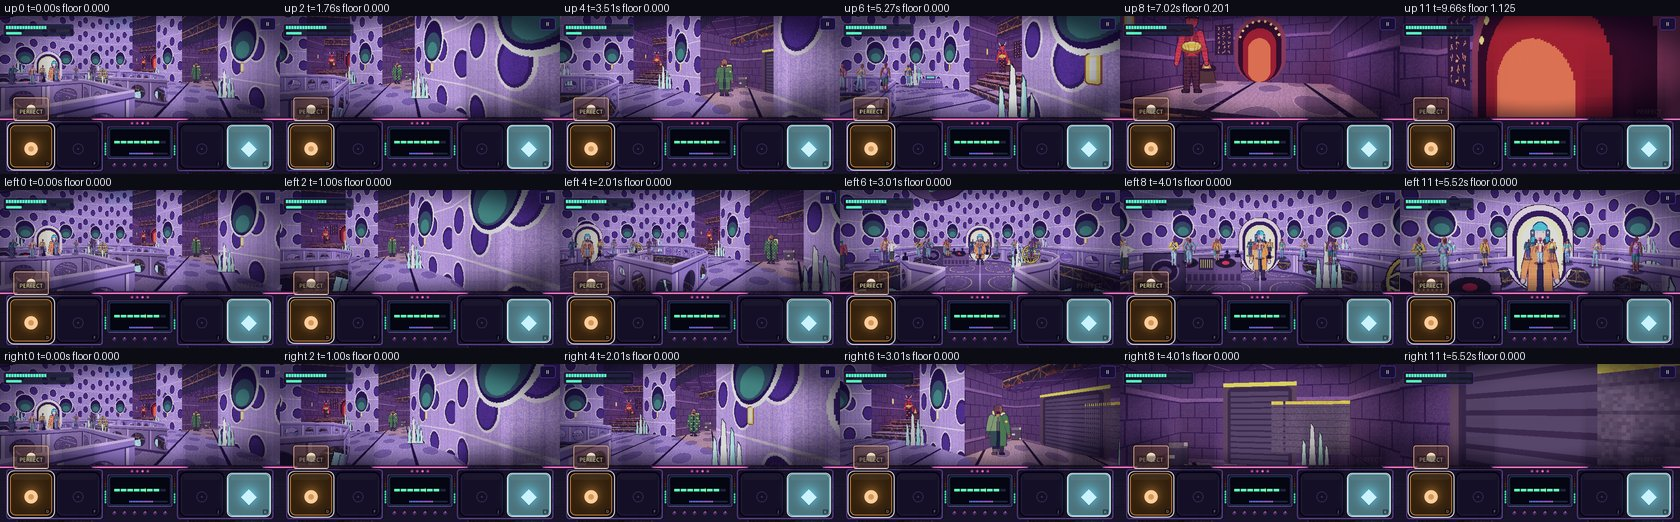
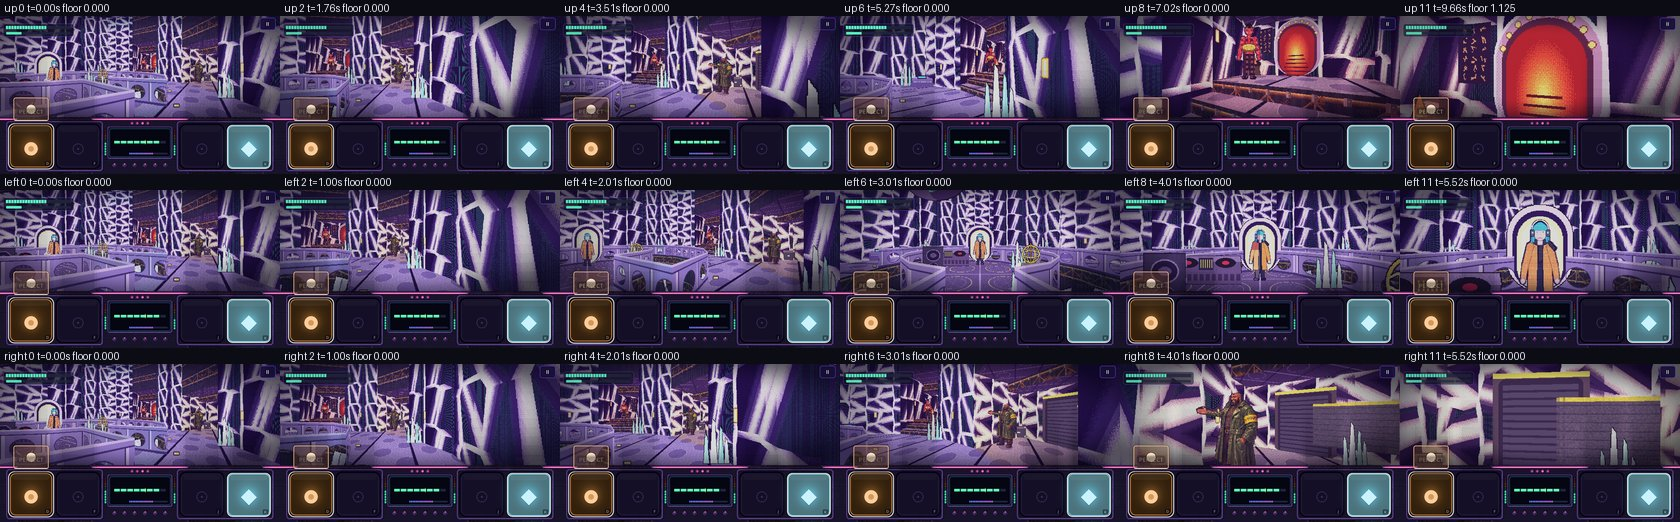
WIP polish-c: Underworld and Mothership scene docs rewritten (matches / does not, exposure per shot before and after, crop vs procedural per guide, hooks); Mothership reshoot

diff --git a/docs/doom/scenes/underworld.md b/docs/doom/scenes/underworld.md
@@ -2,39 +2,66 @@
 
 Reference: `art/reference/doom_worlds/Three Paths Across the Basalt Abyss-4.png` (secondary: `Three Visitors in the Basalt Underworld-6.png`). Map: `content/story/maps/doom_underworld.json` (MAP29 The Living End), APPROXIMATE and **invented from the painting**:
 the render trace of MAP29 (`tools/doom/trace/underworld.json`) gives a lava basin and a central rock mass with no way across (its `uncertain` says so), not a plateau with three ways on, so `tools/doom/trace/underworld_scene.py` builds the room from the painting
-on a 0.25 m grid (`underworld_pilot.json`) and `tools/doom/author_underworld.py` dresses it. Routing from the Underworld: ahead Mothership, left Floor, right Dock.
+on a 0.25 m grid (`underworld_pilot.json`) and `tools/doom/author_underworld.py` dresses it. Routing from the Underworld: ahead Mothership, left Floor (Warehouse), right Dock.
 
 ## What the painting shows, and where it is in the map (metres, x east, y north)
 
 | Painting | Map piece |
 | --- | --- |
-| Foreground basalt slabs with lava in the cracks, rock stumps | `plateau_s/_n/_w` (floor 0), floor texture `uw_floor_slab`, `uw_stub` billboards; viewer at `uw_ref` (0, 1.6) looking north |
-| Left rock wall with bone chimes, gong, drums, red cloth | solid west wall at x = -6.5; `uw_bones` decals, `uw_gong`, `uw_drum`, `uw_cloth` billboards |
-| Blue-lit tunnel at the left, Floor guide at its mouth | `cave_mouth` + `cave` (ceiling 4.5 / 3.5 m, blue texture and light), guide at (-5.4, 7.2), threshold `uw_cave_in` (-10.5, 7) |
-| Ledge climbing along the cliff to the tusk gate, Mothership guide | `ledge_1..4` (3.5 m wide, 0.375 m steps every 2 m to +1.5), `gate_pad`, `causeway` over the abyss to the tower; guide at (-3.7, 16.2) with `uw_tusks`; threshold `uw_gate` (-2.75, 22) |
-| Stair up to a ledge under a patched tent, Dock guide in the green coat | `dstair_1..4` (0.375 m risers) and `shelf` (+1.5): `uw_tent`, `uw_lantern`, `uw_crate`; guide at (6.5, 10.6); threshold `uw_shelf_end` (9.5, 13.5) |
-| Lava chasm between them | `abyss_00..05`: 4 m below the paths, `void: true`, bright lava texture, red fog and lights, `uw_lavafall` decals on the far walls |
-| Stepped tower with banners at the far side | `tstair_1..4` (+3 m), `tower_s/w/e` terrace, `ttop_1..4` small stair to +5 m, `uw_pillar` billboards with red banners |
+| Foreground basalt slabs with lava in the cracks, rock stumps, gong and drums | `plateau_s/_n/_w` (floor 0), `uw_floor_slab`; `uw_stub` billboards; `uw_gong`, `uw_drum` at the reference view's left edge; viewer at `uw_ref` (0, 1.6) looking north |
+| Left rock wall with bone chimes, red cloth | solid west wall at x = -6.5; `uw_bones` decals, `uw_cloth`, a third drum by the wall |
+| Blue-lit tunnel at the left, Floor guide at its mouth | `cave_mouth` + `cave` (rock roof 4.5 / 3.5 m, blue texture and pale blue lamps), guide at (-5.4, 7.2); threshold `uw_cave_in` (-10.5, 7) faces the lit tunnel decal `uw_tunnel` on the cave's end |
+| Ledge climbing along the cliff to the tusk gate, Mothership guide | `ledge_1..4` (3.5 m wide, 0.375 m steps to +1.5), `gate_pad`, `causeway` to the tower; guide at (-3.7, 16.2) with `uw_tusks`; lantern posts `uw_post_a..d`; threshold `uw_gate` (-2.75, 22) |
+| Stair up to a ledge under a patched tent, Dock guide in the green coat | `dstair_1..4` and `shelf` (+1.5): `uw_tent`, `uw_lantern`, `uw_crate`; guide at (8.5, 10.6); threshold `uw_shelf_end` (11, 12.6) faces north-east over the lava to the lit path `uw_passage` on the far cliff |
+| Lava chasm between them | `abyss_00..05`: 5 m below the paths (floor -5), x -4.5 to 30, y 5.5 to 50, `void: true`, bright lava texture lit by a grid of lava lamps 0.6 m over it; the far cliffs 12 m with `uw_lavafall` decals, each fall lighting the cliff round it |
+| Stepped tower with banners at the far side | `tstair_1..4` (+3 m), `tower_s/w/e` terrace, `ttop_1..4` to +5 m, `uw_pillar` billboards with red banners |
+| Red cloud sky | the map's `sky` (`uw_sky`, cylinder, horizon 0.76): near black at the zenith, the lava's glow on the cloud bottoms and a far terraced range at the horizon; every piece but the cave is open to it |
 
-The abyss is a void the player cannot enter: every portal between a walkable piece and an abyss piece is `kind: railing` (`uw_rail`, a chain strip 0.9 m, `blocked: true`). One portal stays open: the map loader requires every sector reachable through open portals, so the
-abyss keeps the one farthest from the origin (the tower's north rim at (6.0, 35.5), a dead end no route or waypoint goes near; the engine's rail check refuses to step into a void). The west cliff wall stands directly against the ledge and the tower (no abyss strip there: it would be a second closed void needing a second open portal).
+The abyss is a void the player cannot enter: every portal between a walkable piece and an abyss piece is `kind: railing` (`uw_rail`: a low kerb of basalt stumps on a 0.9 m strip, see-through between the stones, `blocked: true`). One portal stays open (the loader demands every sector reachable through open portals): the tower's north rim at (6.0, 39.5), a dead end no route or waypoint goes near; the rail check refuses to step into a void.
 
-Reference viewpoint `uw_ref` looks north (choice viewpoint, 8 bars still). The plateau's north edge is only 3.9 m from it so that the lava shows beyond the rim (a viewer at eye height cannot see a floor 14 m down from 10 m back: tried first and rejected, the abyss floor was 14 m down and invisible).
-Guides at the reference viewpoint, 460 px stage strip (16:9 and 20:9 alike in height): Mothership 84 px (13.9 m), Floor 184 px, Dock 121 px (`tests/test_doom_views.gd`, underworld block: requires 60 px, inside the picture, apart, clear of the HUD, a sightline free of solid walls).
+Rail (`tools/run/make_doom_underworld.py`, merged by `make_doom.py`): stay loop = ledge view, cave view, stair view (each 2 bars still), then `uw_ref` (choice, 8 bars still). `rail.routes`: `up`, `left`, `right`, `stumble`, `arrive`. One scene `doom_underworld` (geography world, depth 2), routes straight to `doom_mothership` (up), `doom_warehouse` (left), `doom_dock` (right); three figure guide hotspots (no rings) and the stay hotspot.
 
-Rail (`tools/run/make_doom_underworld.py`, merged by `make_doom.py`): stay loop = ledge view, cave view, stair view (each 2 bars still, via polylines), then `uw_ref` (choice, 8 bars). `rail.routes`: `up` (plateau, ledge, past the Mothership guide, causeway), `left`, `right`, `stumble`, `arrive`.
-One scene `doom_underworld` (geography world, depth 2), its routes straight to `doom_mothership` (up), `doom_warehouse` (left), `doom_dock` (right); three guide hotspots (figure staging, no rings) and the stay hotspot. The thresholds are the `to` of each route move and `rail.exits`.
+## Light and exposure (stage D round 2)
+
+The light is carried by practicals and emissives, not a flat lift: the walkable rock's ambient is 0.5 away from the lamps (`WALK_AMBIENT`, below the engine's 0.62); the lamps are pools (`LAMP_REACH` 1.35: warm yellow-amber lantern posts, the rim's lava glow, pale blue in the cave); the lava floor is emissive (white tint, a lava lamp every 6 m); each lava fall lights the far cliff round it (`uw_lt_fall_*`, `uw_lt_passage`); the haze is a thinner warm red (`#7a2210`, density 0.007). The basalt prism tiles (`columns` in `make_underworld_art.py`) have a 6 px deep seam and a lit, dithered edge per prism, so the walls keep their contrast at distance; the sky is near black at the zenith; the tunnel decal is lit. (The basalt tiles still carry round 1's texture lift, `LIFT` in the art script.)
+
+`tools/doom/frame_check.py` (16:9 shots, world band): before this round (the state round 1 left) and after.
+
+| shot | before p50 / p95-p5 | after p50 / p95-p5 |
+| --- | --- | --- |
+| ref | 0.25 / 0.37 | 0.27 / 0.47 |
+| hold_ledge | 0.25 / 0.35 | 0.25 / 0.47 |
+| hold_cave | 0.27 / 0.35 | 0.29 / 0.48 |
+| hold_stair | 0.24 / 0.32 | 0.26 / 0.42 |
+| route_ahead | 0.25 / 0.30 | 0.26 / 0.41 |
+| route_left | 0.23 / 0.33 | 0.25 / 0.52 |
+| route_right | 0.21 / 0.41 | 0.25 / 0.49 |
+| arrive | 0.26 / 0.38 | 0.27 / 0.45 |
+| all eight | 0.24 / 0.35 | 0.26 / 0.47 |
+
+Every shot is inside the rule (p50 0.25 to 0.38, p95 - p5 over 0.40); hold_ledge, route_left and route_right sit on its lower edge (0.25). The painting itself measures p50 0.17, p95 - p5 0.31: it is darker than the rule.
+
+## The guides (ruling 36)
+
+| guide | source | at `uw_ref` (16:9, figure box height) |
+| --- | --- | --- |
+| Floor (left, braids, magenta top, silver trousers) | CROP from the Underworld painting (286 px tall there) | 169 px |
+| Dock (right, green coat, yellow armband) | CROP from the Mothership painting (335 px there; the Underworld painting's figure is cut by rock and crates) | 134 px |
+| Mothership (ahead, pale lilac figure, white crest, purple robe) | PROCEDURAL placeholder (78 px in the painting, under 180 px) toward the standard: warm and cool rims, dithered sequins | 82 px |
+
+States are small edits of the one figure (available: a lamp-lit rim that breathes; selected: a brighter rim and the hand raised; committed: turned away). No ring or beacon. `tools/doom/art/make_underworld_guides.py`; sheet `docs/shots/doom/underworld/guides_sheet.png`.
 
 ## Shots (docs/shots/doom/underworld/)
 
-`contact.jpg` (the painting beside `uw_ref`, then every viewpoint as a 16:9 | 20:9 pair), `walk_strip.jpg` (three routes, six frames each; pose tables in `walk_*.txt`), `guides_sheet.png`. Regenerate: `python3 tools/doom/shoot_underworld.py`.
+`contact.jpg` (the painting beside `uw_ref`, then every viewpoint as a 16:9 | 20:9 pair, and `preview_pitch14`), `walk_strip.jpg` (three routes, six frames each; pose tables `walk_up.txt`, `walk_left.txt`, `walk_right.txt`), `guides_sheet.png`. Regenerate: `python3 tools/doom/shoot_underworld.py` (needs a window). `preview_pitch14` is `uw_ref` pitched down 14 degrees through `RW_STORY_CAM`: a preview of what the choice hold would show with a pitch, NOT what the run shows (see hooks); it measures p50 0.31, p95 - p5 0.44.
 
-**What matches the painting:** a plateau of cracked basalt with lava glowing in the cracks, the blue cave with the Floor guide at its mouth on the left, the ledge climbing to the Mothership guide and tusk gate in the middle, the stair and tent with the Dock guide on the right, a lava patch between with chain rails, red banner pillars on a tower terrace, a red haze.
+**What matches the painting:** cracked basalt slabs with lava in the cracks and the gong and drums in the left foreground; the bone chimes on the left wall; the blue cave with the Floor guide at its mouth; the ledge and tusk gate with the Mothership guide in the middle; the stair, tent and lantern with the Dock guide on the right; a lava chasm with lava falls on the far cliffs; a red cloud sky over the far side; banner pillars on the tower; warm practicals against the cave's blue; the basalt reads as prisms with dark seams and lit edges.
 
-**What does not:** the lava is a small patch in the gap between ledge and stair, not the wide river and lake of the painting (the engine camera cannot look down; see above); the abyss is 4 m deep, not a vast chasm, and the tower is a terrace and a four-step stair with billboard pillars, not nested rings with sheer columns; the far wall is a flat red cliff texture; there is no red cloud sky (a ceiling texture at 22 m); the cave is a dead end (walking left ends facing its wall); the railings are not in the painting (the brief wants the abyss shut); the Mothership guide is far and small; the walls are flat tiles, no hexagonal column relief; exposure is dark (frame_check over all shots: p50 0.17, p95-p5 0.30, against the 0.25 to 0.38 target: sector light is already 1.0).
+**What does not match:** the basalt is lilac-grey where the painting's is near black (lifted to meet the exposure rule, which the painting itself does not meet); the lava is a band seen past the rim, not the wide river and lake the painting looks down on (the run's choice hold cannot pitch; `preview_pitch14` shows what a pitch gives); the tower is a terrace, a stair and billboard pillars, not nested rings with sheer columns; the far cliffs are a tiled terraced texture, not modelled terraces; the cave's tunnel is a decal at a dead end; the kerb stones on the rim are not in the painting (the abyss must be shut); the Mothership guide is far and small (82 px) and procedural; the cave roof is the cave floor's stone tile.
 
-## Placeholders and not done
+## Placeholders and hooks
 
-Placeholders: every texture, prop, decal and the three guides (`tools/doom/art/make_underworld_art.py`, `make_underworld_guides.py`; floor and dock are the Lounge's drawings, the Mothership guide the Booth's violet variant recoloured); the music (Warehouse arrangements). Not done: no state-driven guide animation beyond the sprite per state; no `src/` hook was needed. A camera pitch on a waypoint or place would let the choice viewpoint look down into the abyss as the painting does.
+Placeholders: every texture, prop and decal (`tools/doom/art/make_underworld_art.py`), the Mothership guide (procedural), the music (Warehouse arrangements). The two cropped guides are cut from the owner's paintings.
+Hooks (engine, not changed here): (1) the run's choice hold carries no pitch (`RunJourney.window_face` emits a `player_look` with `face` and no pitch field), so the choice viewpoint cannot look down into the lava as the painting does; (2) StoryMap's `void_top` is the LOWEST neighbouring floor, so a void split into rectangles has `void_top` equal to its own floor and the engine's void haze is off (the abyss is lit by its lava lamps instead).
 
-Regenerate: see `docs/doom/LAUNCH.md` (underworld block).
+Regenerate: `python -I tools/doom/trace/underworld_scene.py; python -I tools/doom/convert.py --scene underworld --trace tools/doom/trace/underworld_pilot.json; python -I tools/doom/art/make_underworld_art.py; python -I tools/doom/art/make_underworld_guides.py; python -I tools/doom/author_underworld.py`, then `--import` (see `docs/doom/LAUNCH.md`).

diff --git a/docs/doom/scenes/mothership.md b/docs/doom/scenes/mothership.md
@@ -2,35 +2,79 @@
 
 Reference: `art/reference/doom_worlds/Mothership Ringwalk Over the Void-7.png`. Map: `content/story/maps/doom_mothership.json` (MAP11 Circle of Death), APPROXIMATE and **invented from the painting**: the render trace
 (`tools/doom/trace/mothership.json`: a grass basin, a ten sided ring, two black voids) does not give one violet atrium with a ring walk round a void, so `tools/doom/trace/mothership_scene.py` builds the room
-(`mothership_pilot.json`) and `tools/doom/author_mothership.py` dresses it. The ring is round, so the grid is 0.125 m (not the Booth's 0.25 m: the arcs break convexity on it). Routing: ahead Underworld, left Booth, right Dock.
+(`mothership_pilot.json`) and `tools/doom/author_mothership.py` dresses it. The ring is round, so the grid is 0.125 m. Routing: ahead Underworld, left Booth, right Dock.
 
 ## What the reference shows, and where it is in the map (metres, x east, y north, atrium centre (0, 14))
 
 | Painting | Map piece |
 | --- | --- |
-| Ring walkway, wide, oval flagstones, drain slots | `ring_0..15`, 3.5 m wide between radius 6 and 9.5 m, 9 m vault; viewer `ms_ref` at 112.5 degrees below the centre, looking east-north-east |
-| Void on the left, glowing green pool far below | 15 wedge sectors `void_*` (radius 3 to 6 m), floor -9 m, marked `void: true`; green lights at -4 m; pillars (`ms_pillar`) rise from it |
-| Balustrade with oval openings | `kind: railing`, `blocked: true`, tex `ms_rail`, 1.1 m, on every ring/void, platform/void and bridge/void edge (31 pieces) |
-| DJ platform in the void, bridge, Booth guide | `platform` (3 m radius) on the tapering `bridge`; guide `ms_guide_booth` at (0, 15.8), threshold `ms_booth_hatch` |
-| Red horned guide at the top of a stair ahead | alcove `uw_s1`, `uw_s2` (0.375 m risers), `uw_land`, `uw_hatch`; guide `ms_guide_underworld`, threshold `ms_uw_hatch` |
-| Green-coat dock guide, right foreground | alcove `dk_a`, `dk_b` in the outer wall; guide `ms_guide_dock`, threshold `ms_dock_in` |
+| Ring walkway, wide, oval flagstones, drain slots | `ring_0..15`, 3.5 m wide between radius 6 and 9.5 m, walls 9 m; viewer `ms_ref` at 112.5 degrees below the centre, looking east-north-east |
+| Pale bone rib lattice walls | the outer wall: `ms_wall_rib`, `_b`, `_c` (256 px tiles, 2 m, three variants, one per ring piece in turn); the alcoves are bone too (`_b` at the Underworld stair, `_c` at the Dock) |
+| Void on the left, glowing green pool far below, arch legs | 15 wedge sectors `void_*` (radius 3 to 6 m), floor -9 m, `void: true`; the cliffs into it are `ms_void_cliff` (the ring's, bridge's and platform's `step_tex`); a `ms_void_haze` band on every wedge's cliffs (ring side and platform side, emissive); eight green pool lamps 1 m over the pool (void sectors only); pillars (`ms_pillar`) rise from it |
+| Balustrade with oval openings | `kind: railing`, `blocked: true`, `ms_rail`, 1.1 m, on every ring/void, platform/void and bridge/void edge (31 pieces) |
+| Amber lamps along the rail's foot | `ms_rimlamp_0..15` (small glowing blocks on the ring's inner edge every 22.5 degrees), each with a warm pool `ms_lt_rim_*` |
+| The vault | the map's `sky` (`ms_sky`: dark vault with pale arches over the violet haze); the ring, void, bridge and platform are open to it, the alcoves keep `ms_ceil` |
+| DJ platform in the void, bridge, Booth guide | `platform` (3 m radius) on the `bridge`; guide `ms_guide_booth` at (0, 15.8), threshold `ms_booth_hatch` |
+| Red horned drummer at the top of a stair ahead | alcove `uw_s1`, `uw_s2` (0.375 m risers), `uw_land`, `uw_hatch`; hatch decal `ms_hatch_uw` (a bone arch round a passage glowing from within, steps climbing into it); guide `ms_guide_underworld`; threshold `ms_uw_hatch` on the landing, 2 m back from the hatch |
+| Green-coat Dock guide, right foreground | alcove `dk_a`, `dk_b` in the outer wall; guide `ms_guide_dock`; threshold `ms_dock_in` in the alcove, 2.5 m back from the hatch |
 | Armillary pedestal, organ pipes, hanging cable sphere, crystals, consoles, amber wall lamps | billboards and emissive decals |
+| No crowd: the three guides are the only people | `homes` and `silhouettes` empty; the world's story (`content/run/doom/story_doom_mothership.json`) has an empty cast |
 
-Void rule: nobody can enter it (every portal into it is a railing, blocked). StoryMap demands every sector be reachable through portals, so ONE edge (`ring_12`|`void_12`, west, outside every guide view) stays an unrailed portal;
-it is a void crossing (`floor_change` kind void), so the rail and `check_rail_paths` never take it.
+Void rule: nobody can enter it (every portal into it is a railing, blocked). StoryMap demands every sector reachable through portals, so ONE edge (`ring_12`|`void_12`, west, outside every guide view) stays an unrailed portal;
+it is a void crossing, so the rail and `check_rail_paths` never take it.
 
-Rail (`tools/run/make_doom_mothership.py`): stay loop = hub view (ring south, platform across the railing), stair view, bridge view (each 2 bars still), then `ms_ref` (choice, 8 bars). Moves are capped at 4 bars, so the loop goes
-there and back along the south-east ring and over the bridge, never round the whole ring. `rail.routes`: `up` (ring to the stair, 7 bars), `left` (ring, bridge, platform), `right` (ring, dock hatch), `stumble`, `arrive`.
-One scene `doom_mothership` (geography world, depth 2), its routes straight to `doom_underworld` (up), `doom_booth` (left), `doom_dock` (right); three figure guide hotspots and the stay hotspot.
+Rail (`tools/run/make_doom_mothership.py`): stay loop = hub view, stair view, bridge view (each 2 bars still), then `ms_ref` (choice, 8 bars still). `rail.routes`: `up` (ring to the stair, 7 bars), `left` (ring, bridge, platform), `right` (ring, dock alcove), `stumble`, `arrive`.
+One scene `doom_mothership` (geography world, depth 2), its routes straight to `doom_underworld` (up), `doom_booth` (left), `doom_dock` (right); three figure guide hotspots (no rings) and the stay hotspot.
+
+## Stage D round 2: the five differences found at the start, and what was done
+
+Side by side before any change (`ms_ref` against the painting):
+
+1. The walls were a lilac tile with big dark ovals (polka dots), not the painting's thick pale ribs. Done: the oval decals are gone, the rib lattice is wired per ring piece in three variants and in the alcoves, redrawn at 256 px with three to four cells per 2 m tile, thicker warm bone ribs and deep violet openings. It reads as a lattice of streaked ribs, still finer and more regular than the painting's sweeping arches.
+2. No warm practicals on the ring; the painting's amber lamps along the rail's foot carry its warm-against-cool light. Done: sixteen rim lamps with warm pools.
+3. The pool's green glow was absent: its lamps stood 4 m BELOW the pool floor (a light's `y` is above its sector's floor). Done: eight pool lamps 1 m over the pool, four green rim lights under the lip, haze bands on the cliffs, `ms_void_cliff` on the cliffs. From the ring at eye height the pool is still not in view in any shot (see hooks).
+4. A crowd danced on the ring; the painting has nobody but the guides. Done: empty cast.
+5. The threshold holds stared at wall (the Dock hatch from 0.9 m, the Underworld hatch from 1 m, both flat red/grey shapes in dark brick alcoves). Done: both held back (2 to 2.5 m), the alcoves in bone, the Underworld hatch redrawn as a lit passage in a bone arch. The Dock hatch is still the old flat shutter decal.
+
+## Exposure
+
+`tools/doom/frame_check.py` (16:9 shots, world band), before and after this round:
+
+| shot | before p50 / p95-p5 | after p50 / p95-p5 |
+| --- | --- | --- |
+| ref | 0.32 / 0.63 | 0.34 / 0.68 |
+| hold_hub | 0.33 / 0.63 | 0.34 / 0.67 |
+| hold_stair | 0.26 / 0.75 | 0.28 / 0.73 |
+| hold_bridge | 0.29 / 0.68 | 0.28 / 0.70 |
+| route_ahead | 0.21 / 0.46 (off) | 0.26 / 0.61 |
+| route_left | 0.35 / 0.72 | 0.33 / 0.73 |
+| route_right | 0.24 / 0.19 (off) | 0.30 / 0.64 |
+| arrive | 0.33 / 0.64 | 0.33 / 0.66 |
+| all eight | 0.27 / 0.67 | 0.30 / 0.69 |
+
+Every shot is inside the rule (p50 0.25 to 0.38, p95 - p5 over 0.40). The painting measures p50 0.32, p95 - p5 0.52.
+
+## The guides (ruling 36)
+
+| guide | source | at `ms_ref` (16:9, figure box height) |
+| --- | --- | --- |
+| Dock (right, bald, green coat, yellow armband) | CROP from this painting (about 335 px tall there), `make_underworld_guides.crop_frames(DOCK_FIG)`: the same sprite the Underworld uses | 105 px |
+| Booth (left, the DJ: teal hair, headphones, orange jacket) | PROCEDURAL placeholder: about 110 px in the painting above her desk (under 180 px); make_guides' figure, headphones, finished with warm and cool rims and dithered sequins on the jacket | 142 px |
+| Underworld (ahead, red horned drummer, brass drum) | PROCEDURAL placeholder: about 110 px in the painting; horns and drum, rims and sequins on the robe | 62 px |
+
+`tools/doom/art/make_mothership_guides.py`; sheet `docs/shots/doom/mothership/guides_sheet.png`. States: available a lamp-lit rim, selected a brighter rim (the crop also raises the hand), committed turned away. No ring or beacon.
 
 ## Shots (docs/shots/doom/mothership/)
 
-`contact.jpg`, `walk_strip.jpg`, `walk_*.txt`, `guides_sheet.png`. Regenerate: `python3 tools/doom/shoot_mothership.py`. Guides at `ms_ref` (16:9): Booth 142 px, Dock 105 px, Underworld 62 px (60 required).
+`contact.jpg` (the painting beside `ms_ref`, every viewpoint at 16:9 | 20:9), `walk_strip.jpg`, `walk_up.txt`, `walk_left.txt`, `walk_right.txt`, `guides_sheet.png`. Regenerate: `python3 tools/doom/shoot_mothership.py` (needs a window).
 
-**Matches the painting:** the curved ring with the void on the left, the three guides (platform far left, stair ahead, hatch right), railings you see through, violet palette, hanging sphere and crystals, a lit stair with a red hatch.
-**Does not:** the walls are a lilac tile with big dark ovals that reads as polka dots, not organic ribs; the pool floor is barely visible from the ring (no depth fade, see hooks); no free-standing arches, no mosaic floor gloss, no pedestal in the pool as geometry; the ring's outer wall is faceted (16 flat chords); the bridge tapers; the platform is a hub, not the painting's side platform; the dock and Underworld hatches are flat decals in tiny alcoves, close-up shots of them are blank wall; frame_check: ref p50 0.36 ok, `hold_stair`, `route_ahead`, `route_left`, `route_right` off target.
+**Matches the painting:** the curved ring with the balustrade and the void on the left; the three guides (platform far left, stair ahead, hatch right); pale rib walls in place of the polka dots; amber lamps at the rail's foot against the cool violet; a lit stair alcove with the Underworld hatch glowing; the hanging sphere, crystals and armillary; no crowd.
+
+**Does not match:** the ribs are a flat tiled lattice, finer and more regular than the painting's sweeping three-dimensional arches, and the walls rise straight to 9 m, so the vault sky is not in any shot; the green pool, the painting's main light, is not seen from the ring (the camera cannot pitch down; the haze bands and pool lamps are below the eye's view); the floor has no oval flagstones or drain slots and no wet gloss; the ring's outer wall is faceted (16 chords); the platform is a hub at the centre, not the painting's side platform; the Dock hatch is a flat grey shutter; the Dock guide is mid-ground (105 px), not the painting's large foreground figure; the Underworld guide is small (62 px, the minimum is 60); the Booth and Underworld guides are procedural.
 
 ## Placeholders and hooks
 
-Placeholders: every texture, prop, decal and the guides (Dock guide is the Lounge's character redrawn), the music (Warehouse arrangements). Hooks: (1) the void depth haze needs `void_top` to be the highest neighbouring floor, or an authored value: a void split into
-wedges has deep neighbours, so `void_top` equals its own floor and the haze is off; (2) a way to mark a sector as an unreachable void so the reachability check is not needed.
+Placeholders: every texture, prop and decal (`tools/doom/art/make_mothership_art.py`), the Booth and Underworld guides (procedural), the music (Warehouse arrangements). The Dock guide is cut from the owner's painting.
+Hooks (engine, not changed here): (1) the void's depth haze needs `void_top` to be the highest neighbouring floor, or an authored value: StoryMap takes the LOWEST neighbouring floor, and a void split into wedges has wedge neighbours as deep as itself, so `void_top` equals its own floor and the haze is off (the `ms_void_haze` decals stand in); (2) the run's choice hold carries no pitch (`RunJourney.window_face`'s `player_look` has `face` and no pitch), so the choice viewpoint cannot look down at the pool; (3) a way to mark a sector as an unreachable void so the reachability check does not need one open edge.
+
+Regenerate: `python -I tools/doom/trace/mothership_scene.py; python -I tools/doom/convert.py --scene mothership --trace tools/doom/trace/mothership_pilot.json; python -I tools/doom/art/make_mothership_art.py; python -I tools/doom/art/make_mothership_guides.py; python -I tools/doom/author_mothership.py`, then `--import`.
